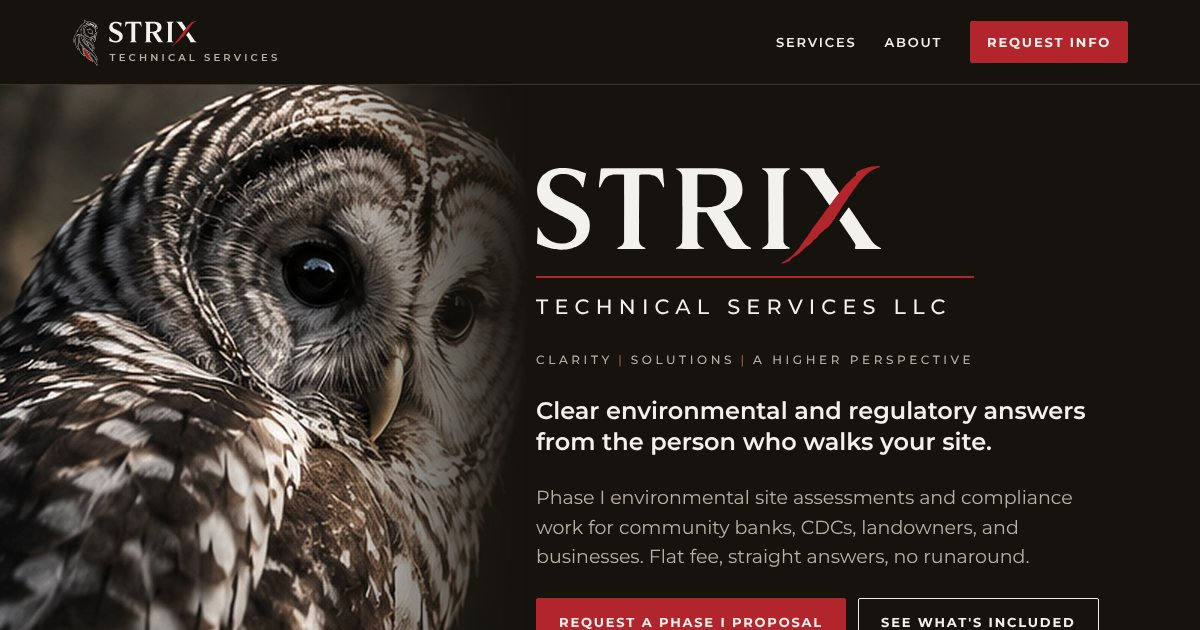
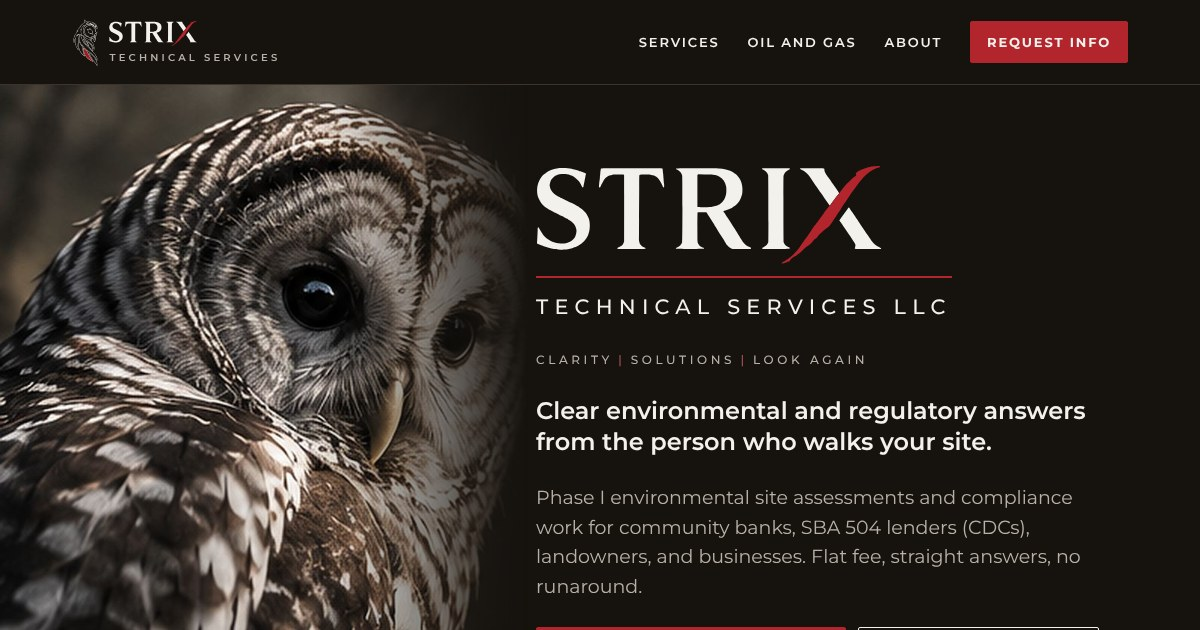
Change tagline to Look Again; refresh link-share image
Claude-Session: https://claude.ai/code/session_01VEiXiZin7XHjQZe9MouWP5

diff --git a/signature.html b/signature.html
@@ -19,7 +19,7 @@
       <div style="padding-top:9px;padding-bottom:2px;"><a href="https://strixtechnical.com" style="text-decoration:none;"><img src="https://strixtechnical.com/strix-lockup-signature.png" width="132" height="49" alt="STRIX Technical Services LLC" style="display:block;border:0;width:132px;height:49px;"></a></div>
       <div style="font-size:12px;line-height:18px;padding-top:4px;"><a href="tel:+19183032491" style="color:#16130F;text-decoration:none;">918-303-2491</a><span style="color:#9E1B22;">&nbsp;|&nbsp;</span><a href="mailto:mterry@strixtechnical.com" style="color:#16130F;text-decoration:none;">mterry@strixtechnical.com</a></div>
       <div style="font-size:12px;line-height:18px;"><a href="https://strixtechnical.com" style="color:#9E1B22;text-decoration:none;font-weight:bold;">strixtechnical.com</a></div>
-      <div style="font-size:10px;letter-spacing:1.2px;line-height:16px;color:#5E5850;padding-top:6px;">CLARITY <span style="color:#9E1B22;">|</span> SOLUTIONS <span style="color:#9E1B22;">|</span> A DIFFERENT PERSPECTIVE</div>
+      <div style="font-size:10px;letter-spacing:1.2px;line-height:16px;color:#5E5850;padding-top:6px;">CLARITY <span style="color:#9E1B22;">|</span> SOLUTIONS <span style="color:#9E1B22;">|</span> LOOK AGAIN</div>
     </td>
   </tr>
 </table>

diff --git a/oil-gas.html b/oil-gas.html
@@ -523,7 +523,7 @@ form { position: relative; display: grid; grid-template-columns: 1fr; gap: 18px;
         <svg class="logo strix-mark bh-strix" viewBox="0 0 2418 695" aria-hidden="true" focusable="false"><use href="#lg-strix"/></svg>
         <div class="bh-rule"></div>
         <p class="bh-sub">Technical Services LLC</p>
-        <p class="bh-tag">Clarity<b>|</b>Solutions<b>|</b>A Different Perspective</p>
+        <p class="bh-tag">Clarity<b>|</b>Solutions<b>|</b>Look Again</p>
       </div>
       <h1 class="bh-head">Practical environmental and safety help from the person who walks your location.</h1>
       <p class="bh-lede">For oil and gas operators, landmen, and right-of-way groups: release response, lease returns, due diligence on new locations, and EHS programs. Based in rural Oklahoma, and glad to make the drive.</p>

diff --git a/index.html b/index.html
@@ -523,7 +523,7 @@ form { position: relative; display: grid; grid-template-columns: 1fr; gap: 18px;
         <svg class="logo strix-mark bh-strix" viewBox="0 0 2418 695" aria-hidden="true" focusable="false"><use href="#lg-strix"/></svg>
         <div class="bh-rule"></div>
         <p class="bh-sub">Technical Services LLC</p>
-        <p class="bh-tag">Clarity<b>|</b>Solutions<b>|</b>A Different Perspective</p>
+        <p class="bh-tag">Clarity<b>|</b>Solutions<b>|</b>Look Again</p>
       </div>
       <h1 class="bh-head">Clear environmental and regulatory answers from the person who walks your site.</h1>
       <p class="bh-lede">Phase I environmental site assessments and compliance work for community banks, SBA 504 lenders (CDCs), landowners, and businesses. Flat fee, straight answers, no runaround.</p>
